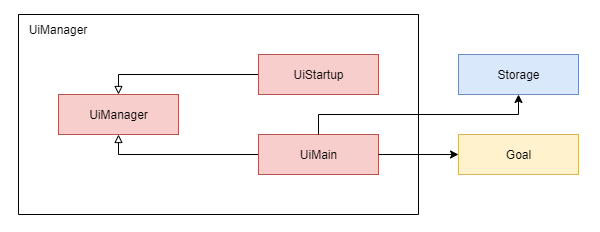
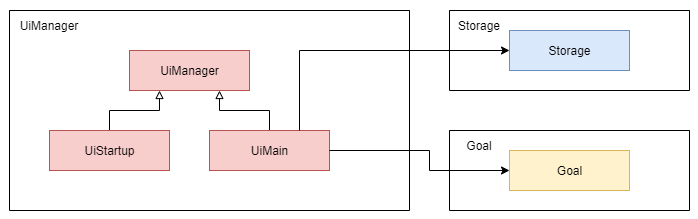
Update Ui Component diagrams
Updated diagrams as per Varun's specifications

diff --git a/docs/DeveloperGuide.md b/docs/DeveloperGuide.md
@@ -101,7 +101,8 @@ The following section covers basic setup instructions to get you up and running 
 
 ### 2.2. Project Set-Up
 
-> ⚠ **Warning**: Follow the steps in the following guide exactly. Any deviations may result in the code failing to run as intended.
+> ⚠ **Warning**: Follow the steps in the following guide exactly. Any deviations may result in the code failing to 
+                     run as intended.
 
 1. Start IntelliJ IDEA.
 2. If you are currently on a project, close the project.
@@ -162,7 +163,6 @@ each sub-component.
 2. `PrintManager` may call `PrintTable` to print a list of items in a tabular format, for example when a user inputs
 the `help` command to view a summary of formats of relevant commands in a tabular form.
 3. `PrintManager` depends on `Goal` and `Habit` to print goal-related and habit-related information respectively.
-// TODO: Update the Print Manager diagram above to include the Habit class
 
 ### 3.3. Parser Component
 
